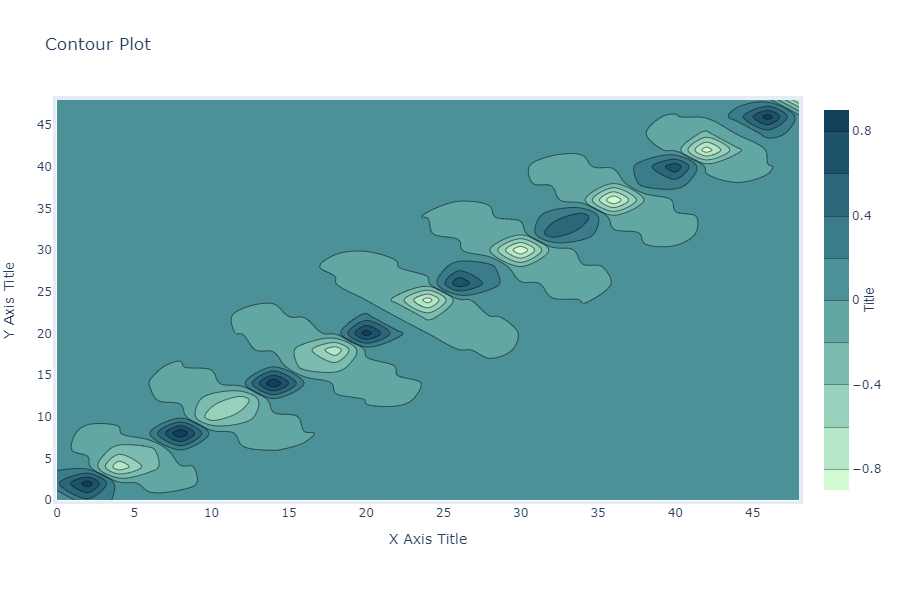
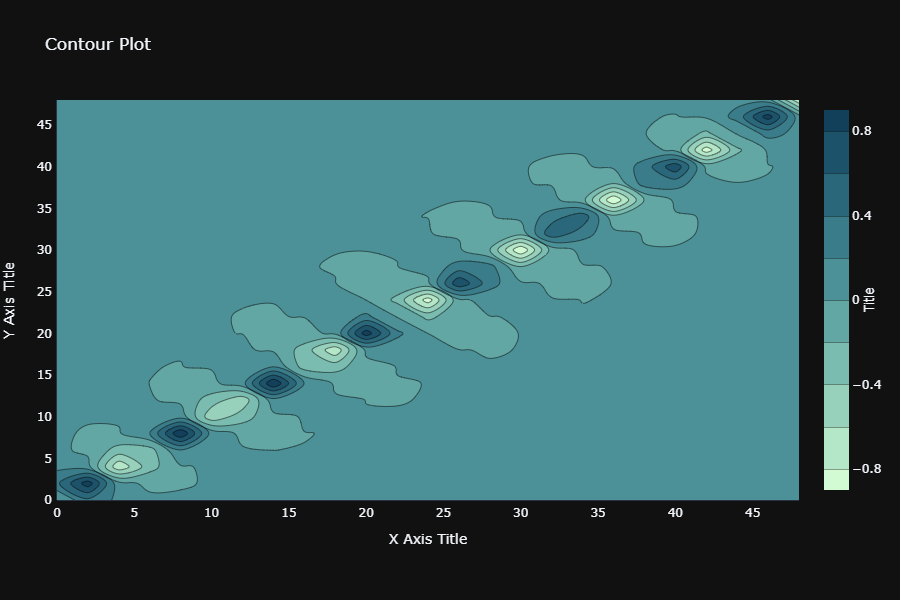
Added Dark Theme to all four plots and updated the screenshots in the README.md

diff --git a/Data-Visualization/FunnelChart/FunnelCharts.py b/Data-Visualization/FunnelChart/FunnelCharts.py
@@ -29,4 +29,5 @@ fig.update_layout(
         title = "Funnel Chart for Food Sales in Asian Countries",
         showlegend = True 
 )
+fig.layout.template = 'plotly_dark'
 fig.show()

diff --git a/Data-Visualization/WaterfallChart/Waterfall.py b/Data-Visualization/WaterfallChart/Waterfall.py
@@ -20,5 +20,5 @@ fig.update_layout(
         xaxis_title='X Axis Title',
         yaxis_title='Y Axis Title',
 )
-
+fig.layout.template = 'plotly_dark'
 fig.show()

diff --git a/Data-Visualization/Contour Plots/contour_plot.py b/Data-Visualization/Contour Plots/contour_plot.py
@@ -43,4 +43,6 @@ fig.update_layout(
     height=600,
     margin=dict(l=50, r=50, b=100, t=100, pad=4)
 )
+
+fig.layout.template = 'plotly_dark'
 fig.show()

diff --git a/Data-Visualization/TernaryPlots/TernaryPlot.py b/Data-Visualization/TernaryPlots/TernaryPlot.py
@@ -26,5 +26,5 @@ fig.update_layout({
     'showlegend': False
 })
 
-
+fig.layout.template = 'plotly_dark'
 fig.show()

diff --git a/Data-Visualization/README.md b/Data-Visualization/README.md
@@ -36,14 +36,14 @@ pip install plotly
 [Elita Menezes](https://github.com/ELITA04/) 
 
 ## 8. Contour Plot
-[![contourplot.png](https://i.postimg.cc/q7w2RdBT/contourplot.png)](https://postimg.cc/v114qk6q)
+[![contourplot.png](https://i.postimg.cc/DyCHL12x/contourplot.png)](https://postimg.cc/1fqvZnVF)
 
 ## 9. Ternary Plot 
-[![ternaryplot.png](https://i.postimg.cc/2SpQ9w9P/ternaryplot.png)](https://postimg.cc/crmtrQSm)
+[![ternaryplot.png](https://i.postimg.cc/Xv5zRh9P/ternaryplot.png)](https://postimg.cc/8F14WZKd)
 ## 10. Waterfall Chart 
-[![Water-Fall.png](https://i.postimg.cc/nznTRkrH/Water-Fall.png)](https://postimg.cc/mc6Qh77q)
+[![Water-Fall.png](https://i.postimg.cc/KvspRFNV/Water-Fall.png)](https://postimg.cc/TpgJ4zBq)
 ## 11. Funnel Chart
-[![Funnel-Chart.png](https://i.postimg.cc/bvhRrTQQ/Funnel-Chart.png)](https://postimg.cc/FYTSn0CR)
+[![Funnel-Chart.png](https://i.postimg.cc/503n1Mys/Funnel-Chart.png)](https://postimg.cc/YGv1fZ1F)
 
 
 # Author
